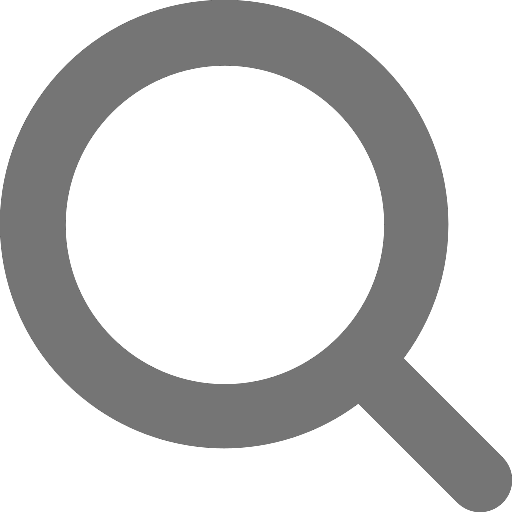
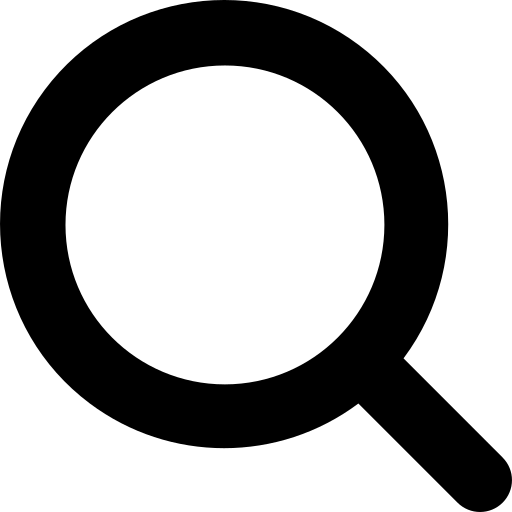
кнопки на карточках
открытие форм регистрации при нажатии на кнопки в карточках товаров

diff --git a/public/scripts/User.js b/public/scripts/User.js
@@ -63,14 +63,34 @@ channel.onmessage = (event) => {
 new Vue({
     el: '#app',
     data: {
+        goods: [],
         isMouseDownOnModal: false,
         isMouseDownOnBackdrop: false,
         isExitModalOpen: false,
+        isProductModalOpen: false,
+        selectedProduct: {},
+        quantity: 1
     },
     mounted() {
         this.fetchGoods();
     },
     methods: {
+        handleMouseDown(event) {
+            if (event.target === event.currentTarget) {
+                this.isMouseDownOnBackdrop = true;
+            }
+        },
+        handleMouseUp(event) {
+            if (this.isMouseDownOnBackdrop && event.target === event.currentTarget) {
+                if (this.isExitModalOpen) {
+                    this.closeExitModal();
+                }
+                else if (this.isProductModalOpen) {
+                    this.closeProductModal();
+                }
+            }
+            this.isMouseDownOnBackdrop = false;
+        },
         fetchGoods() {
             fetch('/api/getgoods')
             .then(response => {
@@ -82,42 +102,25 @@ new Vue({
                 return response.json();
             })
             .then(data => {
+                console.log(data);
                 this.goods = data; // Сохраняем данные в массив
-                this.displayGoods(); // Отображаем товары
             })
             .catch(error => {
                 console.error('There was a problem with the fetch operation:', error);
             });
-        
         },
-        displayGoods() {
-            const container = document.getElementById('symbols-container');
-            container.innerHTML = ''; // Очищаем контейнер перед добавлением новых карточек
-
-            this.goods.forEach(good => {
-                const card = document.createElement('div');
-                card.className = 'card'; // Добавьте класс для стилизации карточек
-                card.innerHTML = `
-                    <div class="card-body"> 
-                        <img src="${good.photo}" alt="${good.name}" class="card-image" />
-                        <h2 class="card-title">${good.name}</h2>
-                        <p class="card-price">${good.price} ₽</p>
-                    </div>
-                    <button @click.prevent="openUserModal">В корзину</button>
-                `;
-                container.appendChild(card); // Добавляем карточку в контейнер
-            });
+        openProductModal(good) {
+            this.selectedProduct = good; // Сохраняем выбранный товар
+            this.quantity = good.min_order_quantity; // Устанавливаем минимальное количество
+            this.isProductModalOpen = true; // Открываем модальное окно
         },
-        handleMouseDown(event) {
-            if (event.target === event.currentTarget) {
-                this.isMouseDownOnBackdrop = true;
-            }
+        closeProductModal() {
+            this.isProductModalOpen = false; // Закрываем модальное окно
         },
-        handleMouseUp(event) {
-            if (this.isMouseDownOnBackdrop && event.target === event.currentTarget) {
-                    this.closeExitModal();
-            }
-            this.isMouseDownOnBackdrop = false;
+        addToCart() {
+            // Логика для добавления товара в корзину
+            console.log(`Добавлено ${this.quantity} шт. товара: ${this.selectedProduct.name}`);
+            this.closeProductModal(); // Закрываем модальное окно
         },
         openExitModal() {
             this.isExitModalOpen = true;
@@ -144,6 +147,14 @@ new Vue({
     },
     watch: {
         isExitModalOpen(newValue) {
+            this.$nextTick(() => {
+                const modal = document.querySelector('.modal');
+                if (modal) {
+                    modal.style.visibility = newValue ? 'visible' : 'hidden'; 
+                }
+            });
+        },
+        isProductModalOpen(newValue) {
             this.$nextTick(() => {
                 const modal = document.querySelector('.modal');
                 if (modal) {

diff --git a/public/User.html b/public/User.html
@@ -49,7 +49,16 @@
             <h1 class="main-big-text">Sofa: Магазин для художников</h1>
             <img src="assets/Catto.png" class="main-big-img">
         </div>
-        <div id="symbols-container" class="symbols-container"></div>
+        <div id="symbols-container" class="symbols-container">
+            <div v-for="good in goods" :key="good.id" class="card">
+                <div class="card-body"> 
+                    <img :src="good.photo" :alt="good.name" class="card-image" />
+                    <h2 class="card-title">{{ good.name }}</h2>
+                    <p class="card-price">{{ good.price }} ₽</p>
+                </div>
+                <button @click.prevent="openProductModal(good)">В корзину</button>
+            </div>
+        </div>
         <!-- Добавляй код сюда! -->
 
         <!-- Дальше идут модальные окна! -->
@@ -64,6 +73,25 @@
                 </form>
             </div>
         </div>
+
+        <div v-if="isProductModalOpen" class="modal" @mousedown="handleMouseDown" @mouseup="handleMouseUp"> 
+            <div class="modal-content" @click.stop>
+                <span class="close" @click="closeProductModal">&times;</span>
+                <h2>{{ selectedProduct.name }}</h2>
+                <p>Материал: {{ selectedProduct.material }}</p>
+                <p>Размер: {{ selectedProduct.size }}</p>
+                <p>Минимальное количество для заказа: {{ selectedProduct.min_order_quantity }}</p>
+                <p>Описание: {{ selectedProduct.description }}</p>
+                
+                <label for="quantity">Количество:</label>
+                <input type="number" id="quantity" v-model="quantity" :min="selectedProduct.min_order_quantity" />
+
+                <p>Цена: {{ (selectedProduct.price * quantity).toFixed(2) }} ₽</p>
+
+                <button @click="addToCart">Добавить в корзину</button>
+            </div>
+        </div>
+
     </main>
     
     <footer>

diff --git a/public/scripts/Sofa.js b/public/scripts/Sofa.js
@@ -90,31 +90,11 @@ new Vue({
             })
             .then(data => {
                 this.goods = data; // Сохраняем данные в массив
-                this.displayGoods(); // Отображаем товары
             })
             .catch(error => {
                 console.error('There was a problem with the fetch operation:', error);
             });
-        
-        },
-        displayGoods() {
-            const container = document.getElementById('symbols-container');
-            container.innerHTML = ''; // Очищаем контейнер перед добавлением новых карточек
-
-            this.goods.forEach(good => {
-                const card = document.createElement('div');
-                card.className = 'card'; // Добавьте класс для стилизации карточек
-                card.innerHTML = `
-                    <div class="card-body"> 
-                        <img src="${good.photo}" alt="${good.name}" class="card-image" />
-                        <h2 class="card-title">${good.name}</h2>
-                        <p class="card-price">${good.price} ₽</p>
-                    </div>
-                    <button @click.prevent="openUserModal">В корзину</button>
-                `;
-                container.appendChild(card); // Добавляем карточку в контейнер
-            });
-        },
+        },          
         showNotification(message, type) {
             const notification = document.createElement('div');
             notification.className = `notification ${type}`;
@@ -127,7 +107,7 @@ new Vue({
                 notification.style.display = 'none';
                 notification.remove();
             }, 3000);
-        },
+        },  
         handleMouseDown(event) {
             if (event.target === event.currentTarget) {
                 this.isMouseDownOnBackdrop = true;

diff --git a/public/Sofa.html b/public/Sofa.html
@@ -76,7 +76,17 @@
             <button>Каталог ></button>
         </div>
         
-        <div id="symbols-container" class="symbols-container"></div>
+        <div id="symbols-container" class="symbols-container">
+            <div v-for="good in goods" :key="good.id" class="card">
+                <div class="card-body"> 
+                    <img :src="good.photo" :alt="good.name" class="card-image" />
+                    <h2 class="card-title">{{ good.name }}</h2>
+                    <p class="card-price">{{ good.price }} ₽</p>
+                </div>
+                <button @click.prevent="openUserModal">В корзину</button>
+            </div>
+        </div>
+        
         <!-- Добавляй код сюда! -->
 
         <!-- Дальше идут модальные окна! -->

diff --git a/public/Recovery.html b/public/Recovery.html
@@ -24,7 +24,7 @@
     <main>
         <div style = "display:flex; justify-content:center">
             <div class="modal-content">
-                <h2>Смена пароля в CoinTracker</h2>
+                <h2>Смена пароля в Sofa</h2>
                 <form id="RecoveryForm" @submit.prevent="submitRecovery">
 
                     <label for="password">Пароль</label>

diff --git a/server.go b/server.go
@@ -504,8 +504,8 @@ func logoutHandler(w http.ResponseWriter, r *http.Request) {
 }
 
 func getgoodsHandler(w http.ResponseWriter, r *http.Request) {
-    // Выполняем запрос к таблице goods
-    rows, err := db.Query("SELECT name, price, photo FROM goods")
+    // Выполняем запрос к таблице goods, выбирая все необходимые поля
+    rows, err := db.Query("SELECT name, price, photo, article, size, material, min_order_quantity, multiplicity, description FROM goods")
     if err != nil {
         http.Error(w, fmt.Sprintf("Query error: %v", err), http.StatusInternalServerError)
         return
@@ -517,7 +517,7 @@ func getgoodsHandler(w http.ResponseWriter, r *http.Request) {
     // Считываем данные из результата запроса
     for rows.Next() {
         var good Good
-        if err := rows.Scan(&good.Name, &good.Price, &good.Photo); err != nil {
+        if err := rows.Scan(&good.Name, &good.Price, &good.Photo, &good.Article, &good.Size, &good.Material, &good.MinOrderQuantity, &good.Multiplicity, &good.Description); err != nil {
             http.Error(w, fmt.Sprintf("Scan error: %v", err), http.StatusInternalServerError)
             return
         }
@@ -539,6 +539,7 @@ func getgoodsHandler(w http.ResponseWriter, r *http.Request) {
         return
     }
 }
+
 
 func handleCheckUserFields(w http.ResponseWriter, r *http.Request) {
     login := r.URL.Query().Get("login")
